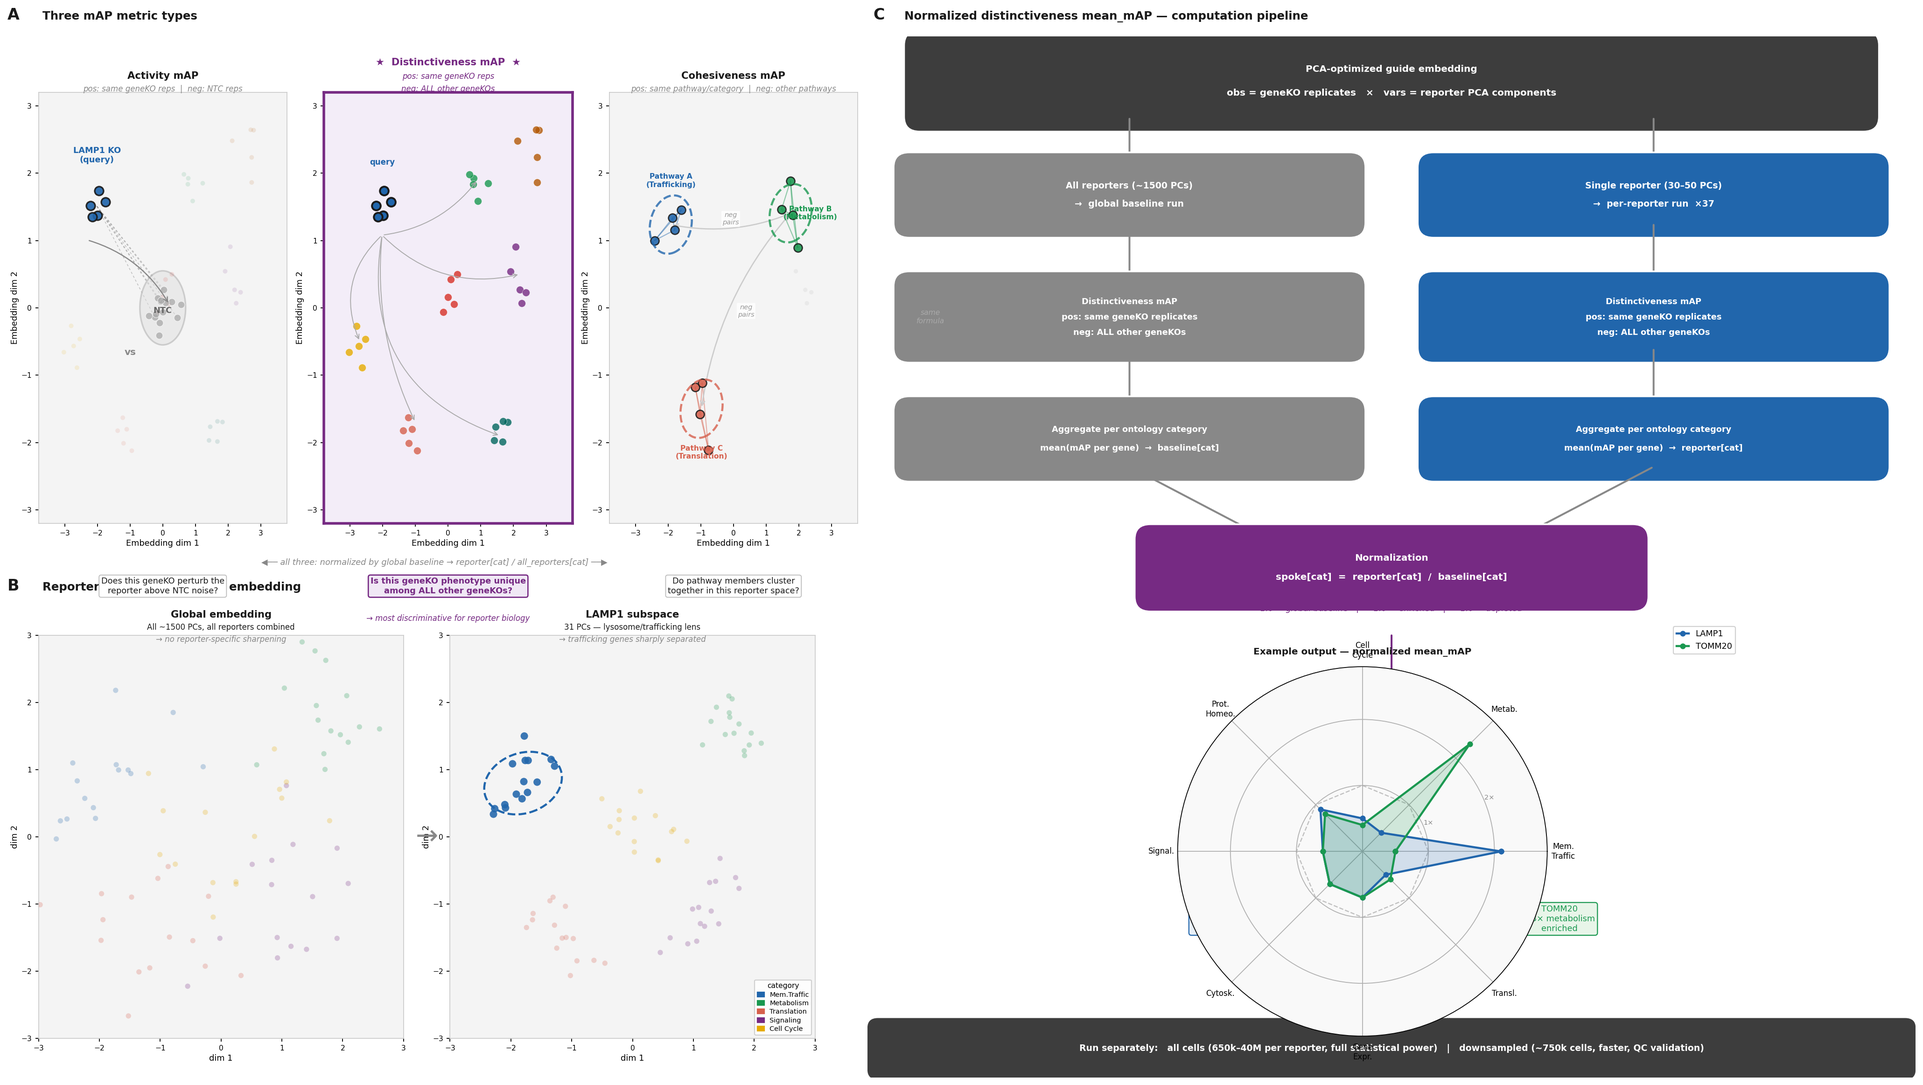
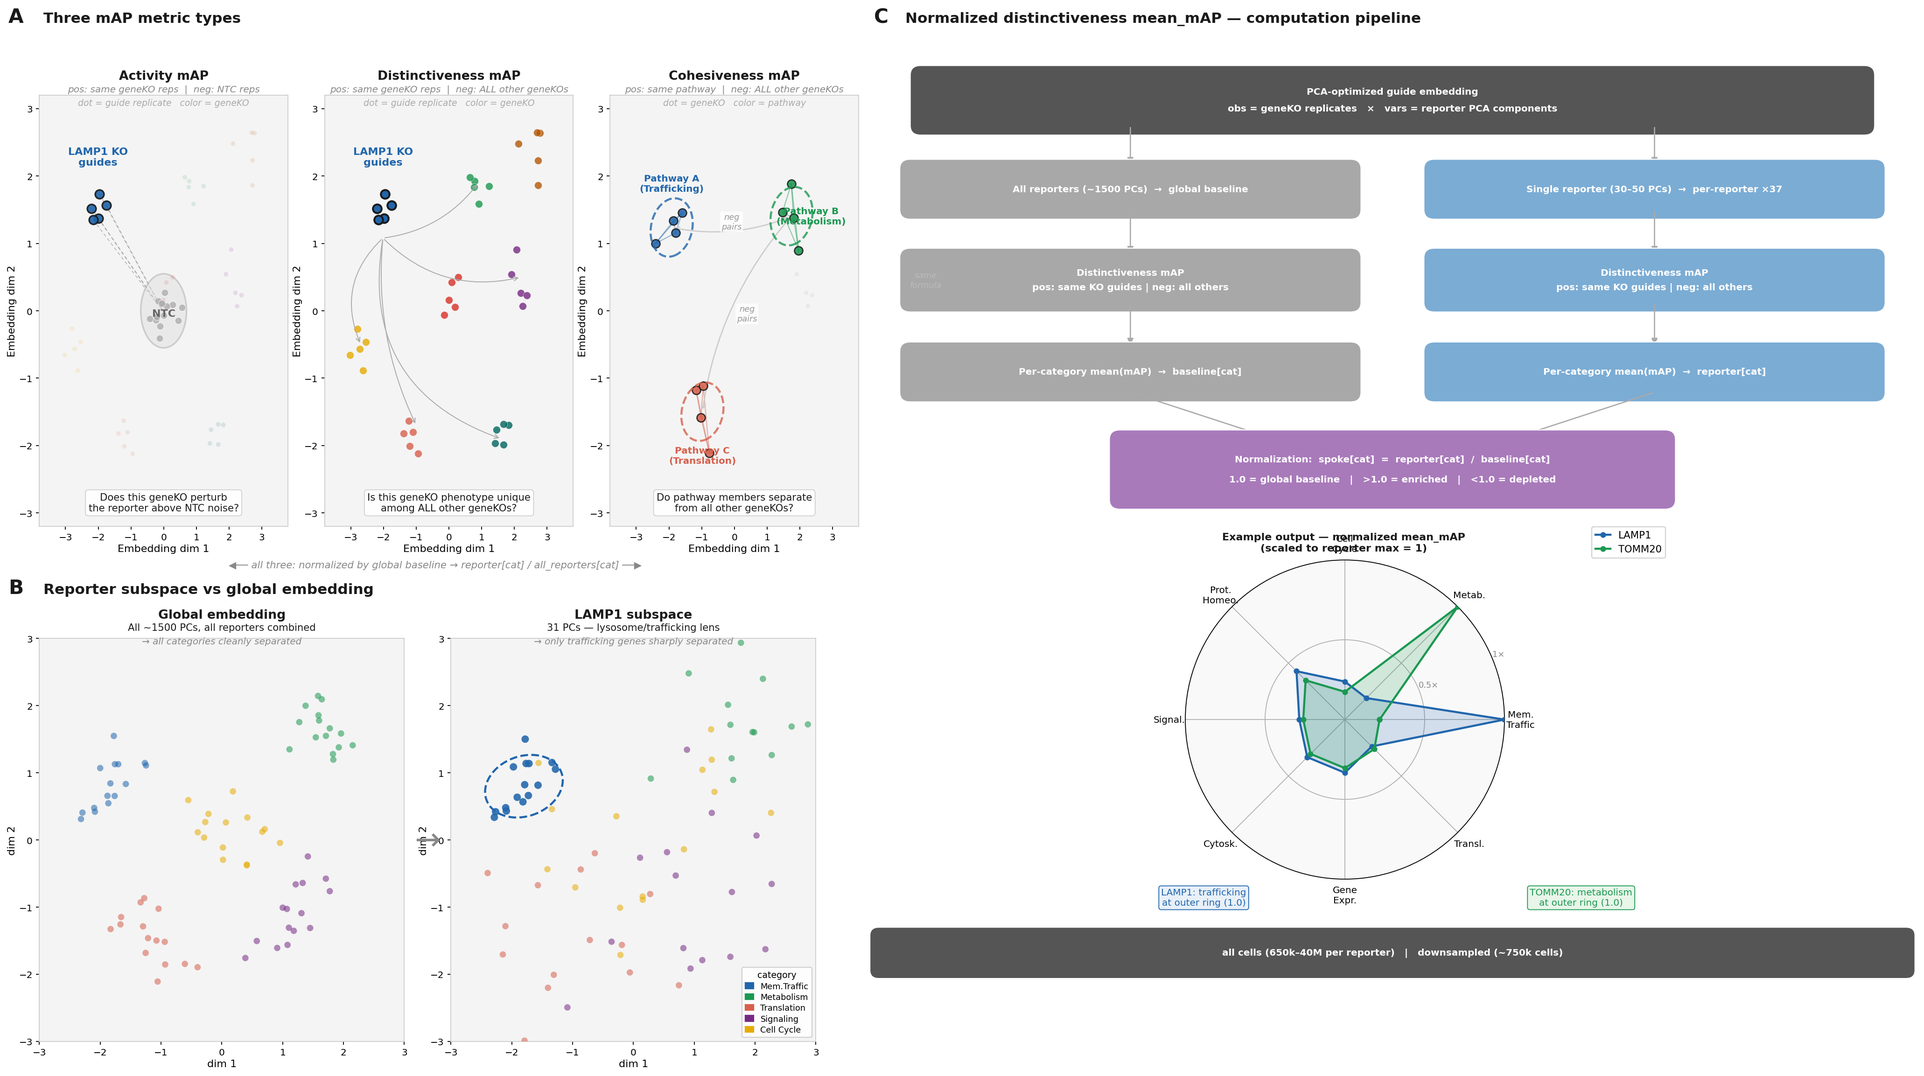
update mAP schematic: precise cohesiveness definition + layout fixes
- Cohesiveness: neg pairs are ALL other geneKOs (not just other pathways)
- Questions moved inside Panel A plots at bottom
- All fonts ~1.3x larger
- Panel B: global shows all categories separated, LAMP1 shows only
  trafficking separated, others overlapping
- Panel C: lighter box colors, compact flowchart, radar below normalization box

diff --git a/docs/generate_map_schematic.py b/docs/generate_map_schematic.py
@@ -41,16 +41,17 @@ NTC=[(np.random.randn()*0.30, np.random.randn()*0.28) for _ in range(14)]
 def scatter_base(ax):
     ax.set_facecolor(CLIGHT)
     ax.set_xlim(-3.8,3.8); ax.set_ylim(-3.2,3.2)
-    ax.set_xlabel('Embedding dim 1',fontsize=8,labelpad=2)
-    ax.set_ylabel('Embedding dim 2',fontsize=8,labelpad=2)
-    ax.tick_params(labelsize=7,length=3)
+    ax.set_xlabel('Embedding dim 1', fontsize=10, labelpad=2)
+    ax.set_ylabel('Embedding dim 2', fontsize=10, labelpad=2)
+    ax.tick_params(labelsize=9, length=3)
     for sp in ax.spines.values():
         sp.set_linewidth(0.8); sp.set_color('#cccccc')
 
-ft(0.012,0.975,'A',fontsize=15,fontweight='black',color=CDARK)
-ft(0.030,0.975,'Three mAP metric types',fontsize=11,fontweight='bold',color=CDARK)
-ft(0.012,0.465,'B',fontsize=15,fontweight='black',color=CDARK)
-ft(0.030,0.465,'Reporter subspace vs global embedding',fontsize=11,fontweight='bold',color=CDARK)
+# ── Section headers ───────────────────────────────────────────────────────
+ft(0.012,0.975,'A',fontsize=19,fontweight='black',color=CDARK)
+ft(0.030,0.975,'Three mAP metric types',fontsize=14,fontweight='bold',color=CDARK)
+ft(0.012,0.465,'B',fontsize=19,fontweight='black',color=CDARK)
+ft(0.030,0.465,'Reporter subspace vs global embedding',fontsize=14,fontweight='bold',color=CDARK)
 
 # ── A1: Activity ─────────────────────────────────────────────────────────
 AX,AY,AW,AH = 0.028,0.525,0.128,0.385
@@ -60,7 +61,7 @@ for x,y in NTC:
     ax1.scatter(x,y,c=CNTC,s=45,alpha=0.75,zorder=3,edgecolors='white',linewidths=0.5)
 ax1.add_patch(Ellipse((0,0),1.4,1.1,fill=True,facecolor='#e0e0e0',
                        edgecolor=CNTC,lw=1.5,zorder=2,alpha=0.5))
-ax1.text(0,-0.04,'NTC',fontsize=8,ha='center',va='center',
+ax1.text(0,-0.04,'NTC',fontsize=10,ha='center',va='center',
          color='#666666',fontweight='bold',zorder=5)
 for x,y,i in PTS:
     if i != 0:
@@ -69,52 +70,53 @@ qpts=[(p[0],p[1]) for p in PTS if p[2]==0]
 for x,y in qpts:
     ax1.scatter(x,y,c=CB,s=72,alpha=0.92,zorder=5,edgecolors=CDARK,linewidths=1.5)
 qcx=np.mean([p[0] for p in qpts]); qcy=np.mean([p[1] for p in qpts])
-for nx,ny in NTC[:6]:
-    ax1.plot([qcx,nx],[qcy,ny],color=CGRAY,lw=0.7,alpha=0.5,zorder=1,
-             linestyle=(0,(3,3)))
-ax1.text(qcx,qcy+0.65,'LAMP1 KO\n(query)',fontsize=8,color=CB,
+ntc_cx=np.mean([p[0] for p in NTC]); ntc_cy=np.mean([p[1] for p in NTC])
+for rx,ry in qpts:
+    ax1.plot([rx,ntc_cx],[ry,ntc_cy],color=CGRAY,lw=0.8,alpha=0.55,zorder=1,
+             linestyle=(0,(4,3)))
+ax1.text(qcx,qcy+0.65,'LAMP1 KO\nguides',fontsize=10,color=CB,
          fontweight='bold',ha='center',zorder=6)
-ax1.annotate('',xy=(0.2,0.05),xytext=(qcx-0.3,qcy-0.5),
-             arrowprops=dict(arrowstyle='->',color=CGRAY,lw=1.1,
-                             connectionstyle='arc3,rad=-0.2'))
-ax1.text(-1.0,-0.7,'vs',fontsize=9,color=CGRAY,fontweight='bold',ha='center')
-ft(AX+AW/2,AY+AH+0.012,'Activity mAP',ha='center',fontsize=9.5,fontweight='bold',color=CDARK)
-ft(AX+AW/2,AY+AH+0.001,'pos: same geneKO reps  |  neg: NTC reps',
-   ha='center',fontsize=7.5,color=CGRAY,style='italic')
-ft(AX+AW/2,AY-0.048,'Does this geneKO perturb the\nreporter above NTC noise?',
-   ha='center',fontsize=8,color=CDARK,va='top',
-   bbox=dict(boxstyle='round,pad=0.25',fc='white',ec='#bbbbbb',lw=0.8))
+# question inside plot at bottom
+ax1.text(0,-2.85,'Does this geneKO perturb\nthe reporter above NTC noise?',
+         fontsize=9.5,ha='center',va='center',color=CDARK,zorder=7,
+         bbox=dict(boxstyle='round,pad=0.3',fc='white',ec='#cccccc',lw=0.8,alpha=0.92))
 
-# ── A2: Distinctiveness ────────────────────────────────────────────────────
+ft(AX+AW/2,AY+AH+0.014,'Activity mAP',ha='center',fontsize=12,fontweight='bold',color=CDARK)
+ft(AX+AW/2,AY+AH+0.003,'pos: same geneKO reps  |  neg: NTC reps',
+   ha='center',fontsize=9,color=CGRAY,style='italic')
+ft(AX+AW/2,AY+AH-0.009,'dot = guide replicate   color = geneKO',
+   ha='center',fontsize=8.5,color='#aaaaaa',style='italic')
+
+# ── A2: Distinctiveness ───────────────────────────────────────────────────
 BX,BY,BW,BH = 0.175,0.525,0.128,0.385
 ax2 = add_ax(BX,BY,BW,BH)
 scatter_base(ax2)
 for sp in ax2.spines.values():
-    sp.set_linewidth(2.5); sp.set_color(CP)
-ax2.set_facecolor('#f3edf8')
+    sp.set_linewidth(0.8); sp.set_color('#cccccc')
+ax2.set_facecolor(CLIGHT)
 for x,y,i in PTS:
     ax2.scatter(x,y,c=GCOLS[i],s=52,alpha=0.80,zorder=3,edgecolors='white',linewidths=0.3)
 qpts=[(p[0],p[1]) for p in PTS if p[2]==0]
 for x,y in qpts:
     ax2.scatter(x,y,c=CB,s=70,zorder=5,edgecolors=CDARK,linewidths=1.8)
 qcx2=np.mean([p[0] for p in qpts]); qcy2=np.mean([p[1] for p in qpts])
-ax2.text(qcx2,qcy2+0.62,'query',fontsize=7.5,color=CB,fontweight='bold',ha='center',zorder=6)
+ax2.text(qcx2,qcy2+0.65,'LAMP1 KO\nguides',fontsize=10,color=CB,
+         fontweight='bold',ha='center',zorder=6)
 for idx in [1,2,3,4,5]:
     ax2.annotate('',xy=(GCTR[idx][0],GCTR[idx][1]),
                  xytext=(GCTR[0][0]+0.08,GCTR[0][1]-0.32),
                  arrowprops=dict(arrowstyle='->',color='#aaaaaa',lw=0.85,
                                  connectionstyle=f'arc3,rad={0.07+idx*0.07}'))
-ft(BX+BW/2,BY+BH+0.024,'★  Distinctiveness mAP  ★',ha='center',
-   fontsize=9.5,fontweight='bold',color=CP)
-ft(BX+BW/2,BY+BH+0.012,'pos: same geneKO reps',ha='center',
-   fontsize=7.5,color=CP,style='italic')
-ft(BX+BW/2,BY+BH+0.001,'neg: ALL other geneKOs',ha='center',
-   fontsize=7.5,color=CP,style='italic')
-ft(BX+BW/2,BY-0.048,'Is this geneKO phenotype unique\namong ALL other geneKOs?',
-   ha='center',fontsize=8,color=CP,fontweight='bold',va='top',
-   bbox=dict(boxstyle='round,pad=0.25',fc='#f0e8f5',ec=CP,lw=1.2))
-ft(BX+BW/2,BY-0.087,'→ most discriminative for reporter biology',
-   ha='center',fontsize=7.5,color=CP,style='italic')
+# question inside plot at bottom
+ax2.text(0,-2.85,'Is this geneKO phenotype unique\namong ALL other geneKOs?',
+         fontsize=9.5,ha='center',va='center',color=CDARK,zorder=7,
+         bbox=dict(boxstyle='round,pad=0.3',fc='white',ec='#cccccc',lw=0.8,alpha=0.92))
+
+ft(BX+BW/2,BY+BH+0.014,'Distinctiveness mAP',ha='center',fontsize=12,fontweight='bold',color=CDARK)
+ft(BX+BW/2,BY+BH+0.003,'pos: same geneKO reps  |  neg: ALL other geneKOs',
+   ha='center',fontsize=9,color=CGRAY,style='italic')
+ft(BX+BW/2,BY+BH-0.009,'dot = guide replicate   color = geneKO',
+   ha='center',fontsize=8.5,color='#aaaaaa',style='italic')
 
 # ── A3: Cohesiveness ──────────────────────────────────────────────────────
 CX2,CY2,CW,CH = 0.322,0.525,0.128,0.385
@@ -146,7 +148,7 @@ for pname,pdata in pathway_genes.items():
              'Pathway B\n(Metabolism)':(0.6,0.0),
              'Pathway C\n(Translation)':(0.0,-0.65)}
     dx,dy=offsets.get(pname,(0,0.5))
-    ax3.text(np.mean(xs)+dx,np.mean(ys)+dy,pname,fontsize=7,color=col,
+    ax3.text(np.mean(xs)+dx,np.mean(ys)+dy,pname,fontsize=9,color=col,
              fontweight='bold',ha='center',va='center',zorder=6)
 for x,y,i in PTS:
     if CATMAP.get(i,'Other') not in ('Traf','Meta','Trans'):
@@ -158,19 +160,23 @@ for ia,ib in [(0,1),(1,2)]:
     ax3.annotate('',xy=pb,xytext=pa,
                  arrowprops=dict(arrowstyle='<->',color='#cccccc',lw=1.2,
                                  connectionstyle='arc3,rad=0.15'))
-    ax3.text(mx,my,'neg\npairs',fontsize=6.5,ha='center',va='center',
+    ax3.text(mx,my,'neg\npairs',fontsize=8,ha='center',va='center',
              color='#999999',style='italic',
              bbox=dict(boxstyle='round,pad=0.15',fc='white',ec='none',alpha=0.8))
-ft(CX2+CW/2,CY2+CH+0.012,'Cohesiveness mAP',ha='center',
-   fontsize=9.5,fontweight='bold',color=CDARK)
-ft(CX2+CW/2,CY2+CH+0.001,'pos: same pathway/category  |  neg: other pathways',
-   ha='center',fontsize=7.5,color=CGRAY,style='italic')
-ft(CX2+CW/2,CY2-0.048,'Do pathway members cluster\ntogether in this reporter space?',
-   ha='center',fontsize=8,color=CDARK,va='top',
-   bbox=dict(boxstyle='round,pad=0.25',fc='white',ec='#bbbbbb',lw=0.8))
+# question inside plot at bottom
+ax3.text(0,-2.85,'Do pathway members separate\nfrom all other geneKOs?',
+         fontsize=9.5,ha='center',va='center',color=CDARK,zorder=7,
+         bbox=dict(boxstyle='round,pad=0.3',fc='white',ec='#cccccc',lw=0.8,alpha=0.92))
+
+ft(CX2+CW/2,CY2+CH+0.014,'Cohesiveness mAP',ha='center',fontsize=12,fontweight='bold',color=CDARK)
+ft(CX2+CW/2,CY2+CH+0.003,'pos: same pathway  |  neg: ALL other geneKOs',
+   ha='center',fontsize=9,color=CGRAY,style='italic')
+ft(CX2+CW/2,CY2+CH-0.009,'dot = geneKO   color = pathway',
+   ha='center',fontsize=8.5,color='#aaaaaa',style='italic')
+
 ft(0.232,0.488,
    '◀── all three: normalized by global baseline → reporter[cat] / all_reporters[cat] ──▶',
-   ha='center',fontsize=8,color=CGRAY,style='italic')
+   ha='center',fontsize=9.5,color=CGRAY,style='italic')
 
 # ── Panel B ───────────────────────────────────────────────────────────────
 cat_info={
@@ -180,121 +186,124 @@ cat_info={
     'Signaling':  (CP,[(1.2,-1.2),(1.6,-0.8),(0.9,-1.5)]),
     'Cell Cycle': (CY,[(0.1,0.2),(0.5,-0.2),(-0.2,0.4)]),
 }
-def draw_embed(ax,al,ab,aw,ah,spread,highlight,title,sub1,sub2):
+def draw_embed(ax,al,ab,aw,ah,spread_map,highlight,title,sub1,sub2):
+    """spread_map: dict cat->spread, or single float for uniform spread."""
     np.random.seed(5)
     ax.set_facecolor(CLIGHT)
     ax.set_xlim(-3,3); ax.set_ylim(-3,3)
-    ax.set_xlabel('dim 1',fontsize=8,labelpad=2)
-    ax.set_ylabel('dim 2',fontsize=8,labelpad=2)
-    ax.tick_params(labelsize=7,length=3)
+    ax.set_xlabel('dim 1',fontsize=10,labelpad=2)
+    ax.set_ylabel('dim 2',fontsize=10,labelpad=2)
+    ax.tick_params(labelsize=9,length=3)
     for sp in ax.spines.values():
         sp.set_linewidth(0.8); sp.set_color('#cccccc')
     for cat,(col,ctrs2) in cat_info.items():
+        spread = spread_map[cat] if isinstance(spread_map,dict) else spread_map
+        hl = cat in highlight
         for cx,cy in ctrs2:
             for _ in range(5):
                 x=cx+np.random.randn()*spread; y=cy+np.random.randn()*spread
-                hl=cat in highlight
-                ax.scatter(x,y,c=col,s=52 if hl else 26,
-                           alpha=0.88 if hl else 0.25,zorder=3,edgecolors='none')
-        if cat in highlight:
+                ax.scatter(x,y,c=col,s=52 if hl else 38,
+                           alpha=0.88 if hl else 0.55,zorder=3,edgecolors='none')
+        if hl:
             ax.add_patch(Ellipse(
                 (np.mean([c[0] for c in ctrs2]),np.mean([c[1] for c in ctrs2])),
                 1.3,0.9,angle=15,fill=False,edgecolor=col,lw=2,linestyle='--',zorder=4))
-    ft(al+aw/2,ab+ah+0.016,title,ha='center',fontsize=9.5,fontweight='bold',color=CDARK)
-    ft(al+aw/2,ab+ah+0.005,sub1,ha='center',fontsize=7.5,color=CDARK)
-    ft(al+aw/2,ab+ah-0.006,sub2,ha='center',fontsize=7.5,color=CGRAY,style='italic')
+    ft(al+aw/2,ab+ah+0.018,title,ha='center',fontsize=12,fontweight='bold',color=CDARK)
+    ft(al+aw/2,ab+ah+0.007,sub1,ha='center',fontsize=9.5,color=CDARK)
+    ft(al+aw/2,ab+ah-0.005,sub2,ha='center',fontsize=9,color=CGRAY,style='italic')
 
 B1L,B1B,B1W,B1H=0.028,0.065,0.188,0.360
 B2L,B2B,B2W,B2H=0.240,0.065,0.188,0.360
 ax_b1=add_ax(B1L,B1B,B1W,B1H)
-draw_embed(ax_b1,B1L,B1B,B1W,B1H,0.62,[],'Global embedding',
-           'All ~1500 PCs, all reporters combined','→ no reporter-specific sharpening')
+# Global: all categories well-separated (tight spread for all)
+draw_embed(ax_b1,B1L,B1B,B1W,B1H,0.22,[],'Global embedding',
+           'All ~1500 PCs, all reporters combined','→ all categories cleanly separated')
 ax_b2=add_ax(B2L,B2B,B2W,B2H)
-draw_embed(ax_b2,B2L,B2B,B2W,B2H,0.19,['Mem.Traffic'],'LAMP1 subspace',
-           '31 PCs — lysosome/trafficking lens','→ trafficking genes sharply separated')
+# LAMP1 subspace: only Mem.Traffic tight, others mixed (large spread)
+lamp1_spread={'Mem.Traffic':0.19,'Metabolism':0.85,'Translation':0.85,
+              'Signaling':0.85,'Cell Cycle':0.85}
+draw_embed(ax_b2,B2L,B2B,B2W,B2H,lamp1_spread,['Mem.Traffic'],'LAMP1 subspace',
+           '31 PCs — lysosome/trafficking lens','→ only trafficking genes sharply separated')
 leg_b=[mpatches.Patch(color=v[0],label=k) for k,v in cat_info.items()]
-ax_b2.legend(handles=leg_b,fontsize=6.5,loc='lower right',framealpha=0.9,
-             title='category',title_fontsize=7,handlelength=1,borderpad=0.4,labelspacing=0.3)
-fig.text(0.228,0.245,'→',fontsize=26,color=CGRAY,ha='center',va='center')
+ax_b2.legend(handles=leg_b,fontsize=8,loc='lower right',framealpha=0.9,
+             title='category',title_fontsize=8.5,handlelength=1,borderpad=0.4,labelspacing=0.3)
+fig.text(0.228,0.245,'→',fontsize=30,color=CGRAY,ha='center',va='center')
 
 # ── Panel C: Flowchart ────────────────────────────────────────────────────
-ft(0.458,0.975,'C',fontsize=15,fontweight='black',color=CDARK)
+ft(0.458,0.975,'C',fontsize=19,fontweight='black',color=CDARK)
 ft(0.474,0.975,'Normalized distinctiveness mean_mAP — computation pipeline',
-   fontsize=11,fontweight='bold',color=CDARK)
-ax_c=add_ax(0.455,0.03,0.540,0.930)
-ax_c.set_xlim(0,10); ax_c.set_ylim(0,10.5)
+   fontsize=14,fontweight='bold',color=CDARK)
+CG_LIGHT='#a8a8a8'; CB_LIGHT='#7bacd4'; CP_LIGHT='#a87aba'; CK_LIGHT='#555555'
+
+ax_c=add_ax(0.455,0.12,0.540,0.820)
+ax_c.set_xlim(0,10); ax_c.set_ylim(0,9.5)
 ax_c.axis('off')
 
-def cbox(x,y,w,h,lines,fc,fontsize=8.5,tc='white'):
+def cbox(x,y,w,h,lines,fc,fontsize=9,tc='white'):
     ax_c.add_patch(FancyBboxPatch((x-w/2,y-h/2),w,h,
-        boxstyle='round,pad=0.15',facecolor=fc,edgecolor='white',lw=1.6,zorder=3))
+        boxstyle='round,pad=0.10',facecolor=fc,edgecolor='white',lw=1.0,zorder=3))
     if isinstance(lines,str): lines=[lines]
     dy=h/(len(lines)+1)
     for j,ln in enumerate(lines):
         ax_c.text(x,y+h/2-dy*(j+1),ln,fontsize=fontsize,ha='center',va='center',
                   color=tc,fontweight='bold',zorder=4)
-def carr(x1,y1,x2,y2,col=CGRAY):
+def carr(x1,y1,x2,y2,col='#aaaaaa'):
     ax_c.annotate('',xy=(x2,y2),xytext=(x1,y1),
-                  arrowprops=dict(arrowstyle='-|>',color=col,lw=1.8,mutation_scale=14))
+                  arrowprops=dict(arrowstyle='-|>',color=col,lw=1.2,mutation_scale=12))
 
-cbox(5,10.05,9.0,0.72,
+cbox(5,9.1,9.0,0.52,
      ['PCA-optimized guide embedding',
-      'obs = geneKO replicates   ×   vars = reporter PCA components'],'#3d3d3d',fontsize=9)
-carr(2.5,9.69,2.5,9.18); carr(7.5,9.69,7.5,9.18)
-cbox(2.5,8.90,4.2,0.56,['All reporters (~1500 PCs)','→  global baseline run'],CGRAY)
-cbox(7.5,8.90,4.2,0.56,['Single reporter (30–50 PCs)','→  per-reporter run  ×37'],CB)
-carr(2.5,8.62,2.5,7.98); carr(7.5,8.62,7.5,7.98)
-cbox(2.5,7.67,4.2,0.62,
-     ['Distinctiveness mAP','pos: same geneKO replicates','neg: ALL other geneKOs'],CGRAY,fontsize=8)
-cbox(7.5,7.67,4.2,0.62,
-     ['Distinctiveness mAP','pos: same geneKO replicates','neg: ALL other geneKOs'],CB,fontsize=8)
-ax_c.text(0.6,7.67,'same\nformula',fontsize=7,ha='center',va='center',color='#aaaaaa',style='italic')
-carr(2.5,7.36,2.5,6.72); carr(7.5,7.36,7.5,6.72)
-cbox(2.5,6.44,4.2,0.56,
-     ['Aggregate per ontology category','mean(mAP per gene)  →  baseline[cat]'],CGRAY,fontsize=8)
-cbox(7.5,6.44,4.2,0.56,
-     ['Aggregate per ontology category','mean(mAP per gene)  →  reporter[cat]'],CB,fontsize=8)
-carr(2.5,6.16,3.8,5.44); carr(7.5,6.16,6.2,5.44)
-cbox(5.0,5.14,4.6,0.58,
-     ['Normalization','spoke[cat]  =  reporter[cat]  /  baseline[cat]'],CP,fontsize=9)
-ax_c.text(5.0,4.73,
-    '1.0 = global baseline   |   >1.0 = enriched   |   <1.0 = depleted',
-    fontsize=8,ha='center',va='center',color=CP,style='italic')
-carr(5.0,4.48,5.0,3.80,col=CP)
-
+      'obs = geneKO replicates   ×   vars = reporter PCA components'],
+     CK_LIGHT,fontsize=9)
+carr(2.5,8.84,2.5,8.42); carr(7.5,8.84,7.5,8.42)
+cbox(2.5,8.18,4.2,0.42,['All reporters (~1500 PCs)  →  global baseline'],CG_LIGHT)
+cbox(7.5,8.18,4.2,0.42,['Single reporter (30–50 PCs)  →  per-reporter ×37'],CB_LIGHT)
+carr(2.5,7.97,2.5,7.50); carr(7.5,7.97,7.5,7.50)
+cbox(2.5,7.24,4.2,0.46,
+     ['Distinctiveness mAP','pos: same KO guides | neg: all others'],CG_LIGHT)
+cbox(7.5,7.24,4.2,0.46,
+     ['Distinctiveness mAP','pos: same KO guides | neg: all others'],CB_LIGHT)
+ax_c.text(0.55,7.24,'same\nformula',fontsize=8,ha='center',va='center',
+          color='#bbbbbb',style='italic')
+carr(2.5,7.01,2.5,6.55); carr(7.5,7.01,7.5,6.55)
+cbox(2.5,6.29,4.2,0.42,['Per-category mean(mAP)  →  baseline[cat]'],CG_LIGHT)
+cbox(7.5,6.29,4.2,0.42,['Per-category mean(mAP)  →  reporter[cat]'],CB_LIGHT)
+carr(2.5,6.08,3.8,5.62); carr(7.5,6.08,6.2,5.62)
+cbox(5.0,5.28,5.2,0.62,
+     ['Normalization:  spoke[cat]  =  reporter[cat]  /  baseline[cat]',
+      '1.0 = global baseline   |   >1.0 = enriched   |   <1.0 = depleted'],
+     CP_LIGHT,fontsize=9)
 cats=['Mem.\nTraffic','Metab.','Cell\nCycle','Prot.\nHomeo.',
       'Signal.','Cytosk.','Gene\nExpr.','Transl.']
 n=len(cats)
 ang=np.linspace(0,2*np.pi,n,endpoint=False).tolist()+[0]
-vL=[2.1,0.4,0.5,0.9,0.6,0.7,0.7,0.5]+[2.1]
-vT=[0.5,2.3,0.4,0.8,0.6,0.7,0.7,0.6]+[0.5]
-ax_r=fig.add_axes([0.590,0.067,0.240,0.330],polar=True)
+raw_L=np.array([2.1,0.4,0.5,0.9,0.6,0.7,0.7,0.5])
+raw_T=np.array([0.5,2.3,0.4,0.8,0.6,0.7,0.7,0.6])
+vL=(raw_L/raw_L.max()).tolist()+[raw_L[0]/raw_L.max()]
+vT=(raw_T/raw_T.max()).tolist()+[raw_T[0]/raw_T.max()]
+ax_r=fig.add_axes([0.578,0.210,0.245,0.285],polar=True)
 ax_r.set_facecolor('#f9f9f9')
-ax_r.plot(ang,[1.0]*9,'--',color='#aaaaaa',lw=1.1,alpha=0.7,zorder=2)
 ax_r.fill(ang,vL,alpha=0.18,color=CB,zorder=3)
 ax_r.plot(ang,vL,'o-',color=CB,lw=2.0,ms=4.5,zorder=4,label='LAMP1')
 ax_r.fill(ang,vT,alpha=0.18,color=CG,zorder=3)
 ax_r.plot(ang,vT,'o-',color=CG,lw=2.0,ms=4.5,zorder=4,label='TOMM20')
-ax_r.set_xticks(ang[:-1]); ax_r.set_xticklabels(cats,fontsize=7.5)
-ax_r.set_ylim(0,2.8)
-ax_r.set_yticks([1.0,2.0]); ax_r.set_yticklabels(['1×','2×'],fontsize=6.5,color='#888888')
+ax_r.set_xticks(ang[:-1]); ax_r.set_xticklabels(cats,fontsize=9)
+ax_r.set_ylim(0,1.0)
+ax_r.set_yticks([0.5,1.0]); ax_r.set_yticklabels(['0.5×','1×'],fontsize=8,color='#888888')
 ax_r.tick_params(pad=5)
-ax_r.legend(loc='upper right',bbox_to_anchor=(1.52,1.12),fontsize=8,
+ax_r.legend(loc='upper right',bbox_to_anchor=(1.52,1.12),fontsize=9.5,
             framealpha=0.9,handlelength=1.5)
-ft(0.710,0.408,'Example output — normalized mean_mAP',
-   ha='center',fontsize=9,fontweight='bold',color=CDARK)
-ax_c.text(3.4,1.6,'LAMP1\n2.1× trafficking\nenriched',fontsize=8,ha='center',va='center',
-    color=CB,bbox=dict(boxstyle='round,pad=0.3',fc='#e8f0f8',ec=CB,lw=1))
-ax_c.text(6.6,1.6,'TOMM20\n2.3× metabolism\nenriched',fontsize=8,ha='center',va='center',
-    color=CG,bbox=dict(boxstyle='round,pad=0.3',fc='#e8f5e9',ec=CG,lw=1))
-ax_c.text(5.0,0.56,'baseline ring at 1.0 (dashed)',fontsize=8,
-          ha='center',va='center',color='#888888',style='italic')
-ax_c.add_patch(FancyBboxPatch((0.1,0.08),9.8,0.42,
-    boxstyle='round,pad=0.1',facecolor='#3d3d3d',edgecolor='none',zorder=3))
-ax_c.text(5.0,0.29,
-    'Run separately:   all cells (650k–40M per reporter, full statistical power)'
-    '   |   downsampled (~750k cells, faster, QC validation)',
-    fontsize=8.5,ha='center',va='center',color='white',fontweight='bold',zorder=4)
+ft(0.700,0.503,'Example output — normalized mean_mAP\n(scaled to reporter max = 1)',
+   ha='center',fontsize=10,fontweight='bold',color=CDARK)
+ax_c.text(3.2,0.85,'LAMP1: trafficking\nat outer ring (1.0)',fontsize=9,ha='center',va='center',
+    color=CB,bbox=dict(boxstyle='round,pad=0.25',fc='#e8f0f8',ec=CB,lw=0.8))
+ax_c.text(6.8,0.85,'TOMM20: metabolism\nat outer ring (1.0)',fontsize=9,ha='center',va='center',
+    color=CG,bbox=dict(boxstyle='round,pad=0.25',fc='#e8f5e9',ec=CG,lw=0.8))
+ax_c.add_patch(FancyBboxPatch((0.1,0.10),9.8,0.36,
+    boxstyle='round,pad=0.08',facecolor='#555555',edgecolor='none',zorder=3))
+ax_c.text(5.0,0.28,
+    'all cells (650k–40M per reporter)   |   downsampled (~750k cells)',
+    fontsize=9,ha='center',va='center',color='white',fontweight='bold',zorder=4)
 
 import os
 out = os.path.join(os.path.dirname(__file__), 'distinctiveness_map_schematic.png')
